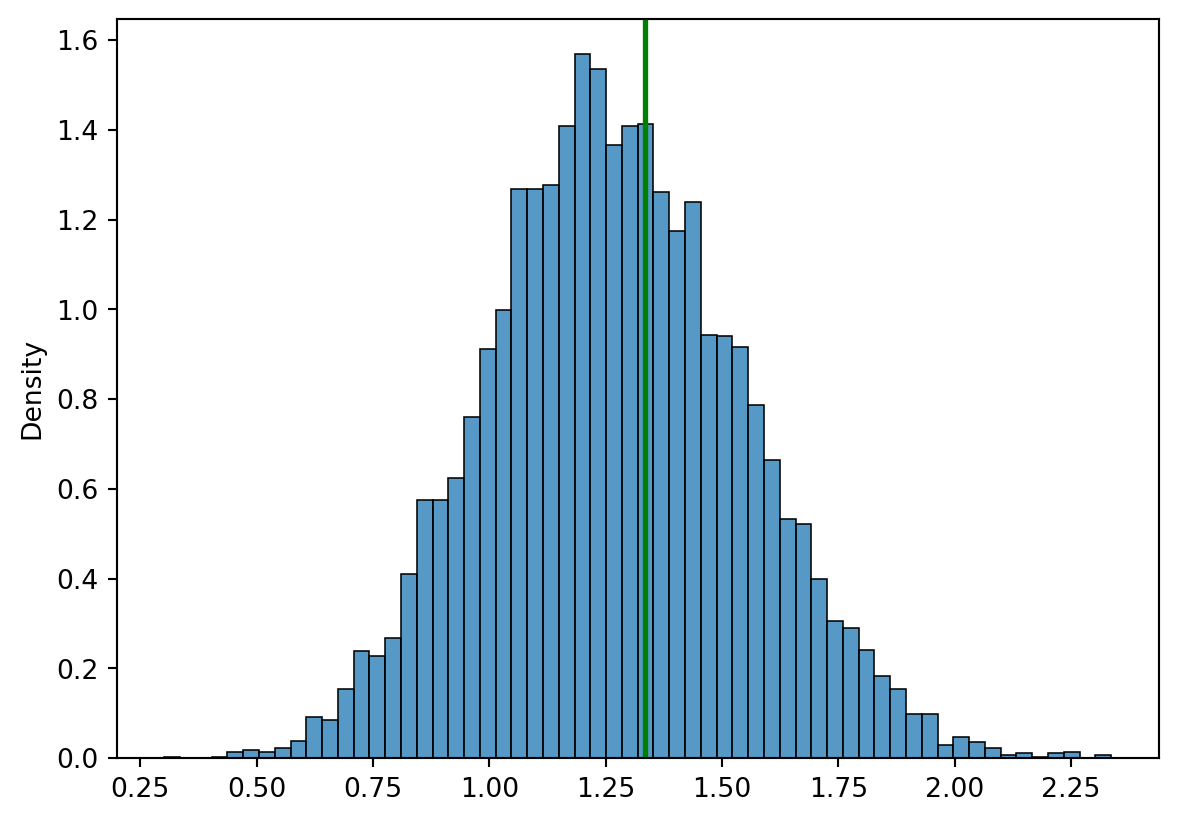
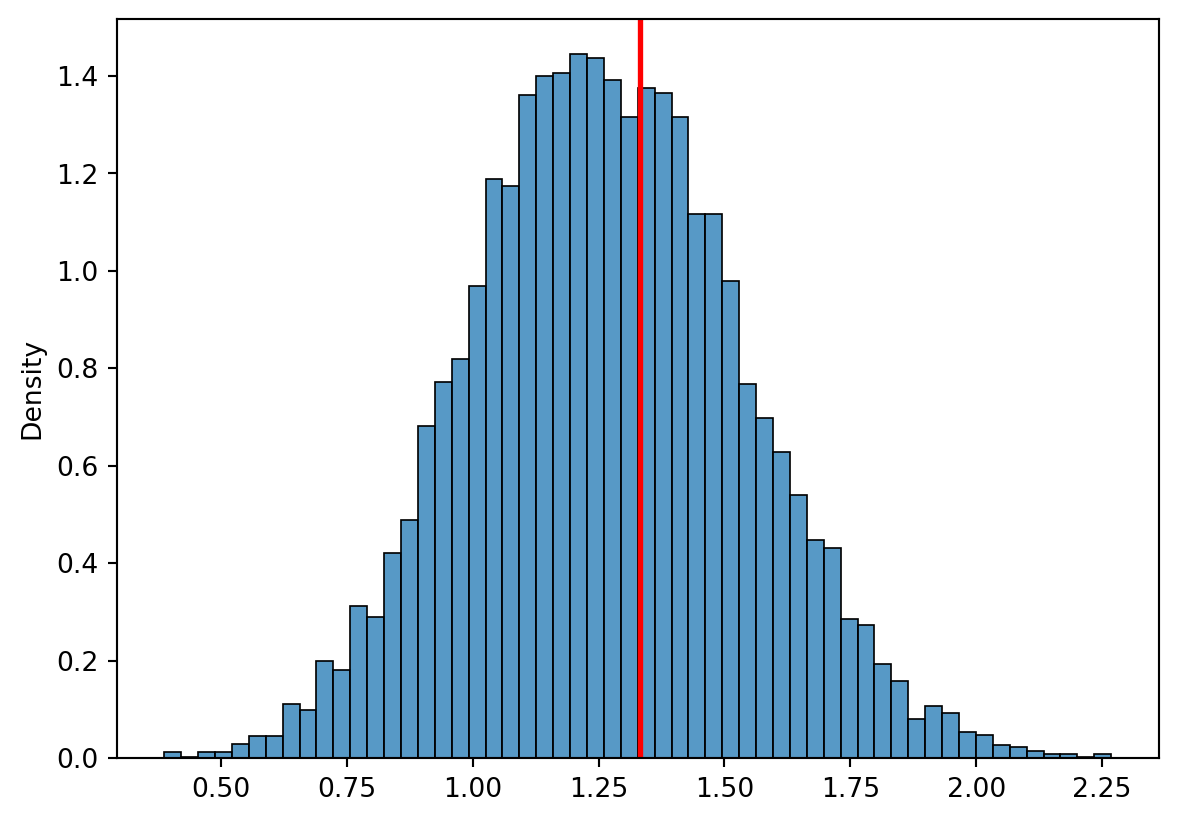
update

diff --git a/docs/posts/hw4/hw4.html b/docs/posts/hw4/hw4.html
@@ -199,7 +199,7 @@ pre > code.sourceCode > span > a:first-child::before { text-decoration: underlin
 <p>표본 분산 계산 시 왜 n-1로 나누는지 알아보도록 하겠습니다.</p>
 <p>균일분포 (3, 7)에서 20개의 표본을 뽑아서 분산을 2가지 방법으로 추정해보세요.</p>
 <p>n-1로 나눈 것을 s_2, n으로 나눈 것을 k_2로 정의하고, s_2의 분포와 k_2의 분포를 그려주세요! (10000개 사용) 각 분포 그래프에 모분산의 위치에 녹색 막대를 그려주세요. 결과를 살펴보고, 왜 n-1로 나눈 것을 분산을 추정하는 지표로 사용하는 것이 타당한지 써주세요!</p>
-<div id="1414750b" class="cell" data-execution_count="1">
+<div id="e3411988" class="cell" data-execution_count="1">
 <div class="sourceCode cell-code" id="cb1"><pre class="sourceCode python code-with-copy"><code class="sourceCode python"><span id="cb1-1"><a href="#cb1-1" aria-hidden="true" tabindex="-1"></a><span class="im">import</span> pandas <span class="im">as</span> pd</span>
 <span id="cb1-2"><a href="#cb1-2" aria-hidden="true" tabindex="-1"></a><span class="im">import</span> numpy <span class="im">as</span> np</span>
 <span id="cb1-3"><a href="#cb1-3" aria-hidden="true" tabindex="-1"></a><span class="im">import</span> seaborn <span class="im">as</span> sns</span>
@@ -207,25 +207,25 @@ pre > code.sourceCode > span > a:first-child::before { text-decoration: underlin
 <span id="cb1-5"><a href="#cb1-5" aria-hidden="true" tabindex="-1"></a><span class="im">from</span> scipy.stats <span class="im">import</span> uniform</span></code><button title="Copy to Clipboard" class="code-copy-button"><i class="bi"></i></button></pre></div>
 </div>
 <p><strong>균일분포 (3, 7)에서 20개의 표본 추출</strong></p>
-<div id="8072fa10" class="cell" data-execution_count="2">
+<div id="4361c513" class="cell" data-execution_count="2">
 <div class="sourceCode cell-code" id="cb2"><pre class="sourceCode python code-with-copy"><code class="sourceCode python"><span id="cb2-1"><a href="#cb2-1" aria-hidden="true" tabindex="-1"></a>x <span class="op">=</span> uniform.rvs(loc<span class="op">=</span><span class="dv">3</span>, scale<span class="op">=</span><span class="dv">4</span>, size<span class="op">=</span><span class="dv">20</span><span class="op">*</span><span class="dv">10000</span>)</span>
 <span id="cb2-2"><a href="#cb2-2" aria-hidden="true" tabindex="-1"></a>x</span>
 <span id="cb2-3"><a href="#cb2-3" aria-hidden="true" tabindex="-1"></a>x.shape</span>
 <span id="cb2-4"><a href="#cb2-4" aria-hidden="true" tabindex="-1"></a>x<span class="op">=</span>x.reshape(<span class="op">-</span><span class="dv">1</span>, <span class="dv">20</span>)</span>
 <span id="cb2-5"><a href="#cb2-5" aria-hidden="true" tabindex="-1"></a>x</span>
 <span id="cb2-6"><a href="#cb2-6" aria-hidden="true" tabindex="-1"></a>x.shape</span></code><button title="Copy to Clipboard" class="code-copy-button"><i class="bi"></i></button></pre></div>
-<div class="cell-output cell-output-display" data-execution_count="2">
+<div class="cell-output cell-output-display" data-execution_count="10">
 <pre><code>(10000, 20)</code></pre>
 </div>
 </div>
 <p><strong>n-1로 나눈 것을 s_2</strong> <strong>s_2의 분포 그리기 (10000개 사용)</strong> <strong>모분산의 위치에 녹색 막대</strong></p>
-<div id="6a22b1fe" class="cell" data-execution_count="3">
+<div id="7af1358f" class="cell" data-execution_count="3">
 <div class="sourceCode cell-code" id="cb4"><pre class="sourceCode python code-with-copy"><code class="sourceCode python"><span id="cb4-1"><a href="#cb4-1" aria-hidden="true" tabindex="-1"></a>s_2 <span class="op">=</span> np.var(x, ddof<span class="op">=</span><span class="dv">1</span>, axis<span class="op">=</span><span class="dv">1</span>)</span>
 <span id="cb4-2"><a href="#cb4-2" aria-hidden="true" tabindex="-1"></a>s_2.shape</span>
 <span id="cb4-3"><a href="#cb4-3" aria-hidden="true" tabindex="-1"></a>sns.histplot(s_2, stat<span class="op">=</span><span class="st">'density'</span>)</span>
-<span id="cb4-4"><a href="#cb4-4" aria-hidden="true" tabindex="-1"></a>plt.axvline(x <span class="op">=</span> uniform.var(loc<span class="op">=</span><span class="dv">2</span>, scale<span class="op">=</span><span class="dv">4</span>), color <span class="op">=</span> <span class="st">'green'</span>, linestyle <span class="op">=</span> <span class="st">'-'</span>, linewidth <span class="op">=</span> <span class="dv">2</span>)</span>
-<span id="cb4-5"><a href="#cb4-5" aria-hidden="true" tabindex="-1"></a>plt.show()</span>
-<span id="cb4-6"><a href="#cb4-6" aria-hidden="true" tabindex="-1"></a>plt.clf()</span></code><button title="Copy to Clipboard" class="code-copy-button"><i class="bi"></i></button></pre></div>
+<span id="cb4-4"><a href="#cb4-4" aria-hidden="true" tabindex="-1"></a>pop_var <span class="op">=</span> uniform.var(loc<span class="op">=</span><span class="dv">3</span>, scale<span class="op">=</span><span class="dv">4</span>)</span>
+<span id="cb4-5"><a href="#cb4-5" aria-hidden="true" tabindex="-1"></a>plt.axvline(x <span class="op">=</span> pop_var, color <span class="op">=</span> <span class="st">'red'</span>, linestyle <span class="op">=</span> <span class="st">'-'</span>, linewidth <span class="op">=</span> <span class="dv">2</span>)</span>
+<span id="cb4-6"><a href="#cb4-6" aria-hidden="true" tabindex="-1"></a>plt.show()</span></code><button title="Copy to Clipboard" class="code-copy-button"><i class="bi"></i></button></pre></div>
 <div class="cell-output cell-output-display">
 <div>
 <figure class="figure">
@@ -233,18 +233,15 @@ pre > code.sourceCode > span > a:first-child::before { text-decoration: underlin
 </figure>
 </div>
 </div>
-<div class="cell-output cell-output-display">
-<pre><code>&lt;Figure size 672x480 with 0 Axes&gt;</code></pre>
-</div>
 </div>
 <p><strong>n으로 나눈 것을 k_2로 정의</strong> <strong>k_2의 분포 그리기 (10000개 사용)</strong> <strong>모분산의 위치에 녹색 막대</strong></p>
-<div id="69f90caf" class="cell" data-execution_count="4">
-<div class="sourceCode cell-code" id="cb6"><pre class="sourceCode python code-with-copy"><code class="sourceCode python"><span id="cb6-1"><a href="#cb6-1" aria-hidden="true" tabindex="-1"></a>k_2 <span class="op">=</span> np.var(x, ddof<span class="op">=</span><span class="dv">0</span>, axis<span class="op">=</span><span class="dv">1</span>)</span>
-<span id="cb6-2"><a href="#cb6-2" aria-hidden="true" tabindex="-1"></a>k_2.shape</span>
-<span id="cb6-3"><a href="#cb6-3" aria-hidden="true" tabindex="-1"></a></span>
-<span id="cb6-4"><a href="#cb6-4" aria-hidden="true" tabindex="-1"></a>sns.histplot(k_2, stat<span class="op">=</span><span class="st">'density'</span>)</span>
-<span id="cb6-5"><a href="#cb6-5" aria-hidden="true" tabindex="-1"></a>plt.axvline(x <span class="op">=</span> uniform.var(loc<span class="op">=</span><span class="dv">2</span>, scale<span class="op">=</span><span class="dv">4</span>), color <span class="op">=</span> <span class="st">'green'</span>, linestyle <span class="op">=</span> <span class="st">'-'</span>, linewidth <span class="op">=</span> <span class="dv">2</span>)</span>
-<span id="cb6-6"><a href="#cb6-6" aria-hidden="true" tabindex="-1"></a>plt.show()</span></code><button title="Copy to Clipboard" class="code-copy-button"><i class="bi"></i></button></pre></div>
+<div id="1055a657" class="cell" data-execution_count="4">
+<div class="sourceCode cell-code" id="cb5"><pre class="sourceCode python code-with-copy"><code class="sourceCode python"><span id="cb5-1"><a href="#cb5-1" aria-hidden="true" tabindex="-1"></a>k_2 <span class="op">=</span> np.var(x, ddof<span class="op">=</span><span class="dv">0</span>, axis<span class="op">=</span><span class="dv">1</span>)</span>
+<span id="cb5-2"><a href="#cb5-2" aria-hidden="true" tabindex="-1"></a>k_2.shape</span>
+<span id="cb5-3"><a href="#cb5-3" aria-hidden="true" tabindex="-1"></a></span>
+<span id="cb5-4"><a href="#cb5-4" aria-hidden="true" tabindex="-1"></a>sns.histplot(k_2, stat<span class="op">=</span><span class="st">'density'</span>)</span>
+<span id="cb5-5"><a href="#cb5-5" aria-hidden="true" tabindex="-1"></a>plt.axvline(x <span class="op">=</span> pop_var, color <span class="op">=</span> <span class="st">'red'</span>, linestyle <span class="op">=</span> <span class="st">'-'</span>, linewidth <span class="op">=</span> <span class="dv">2</span>)</span>
+<span id="cb5-6"><a href="#cb5-6" aria-hidden="true" tabindex="-1"></a>plt.show()</span></code><button title="Copy to Clipboard" class="code-copy-button"><i class="bi"></i></button></pre></div>
 <div class="cell-output cell-output-display">
 <div>
 <figure class="figure">

diff --git a/docs/blog.html b/docs/blog.html
@@ -202,7 +202,7 @@ window.Quarto = {
 
 <div class="quarto-listing quarto-listing-container-default" id="listing-listing">
 <div class="list quarto-listing-default">
-<div class="quarto-post image-right" data-index="0" data-categories="bigdata" data-listing-date-sort="1722178800000" data-listing-file-modified-sort="1722265827147" data-listing-date-modified-sort="NaN" data-listing-reading-time-sort="1" data-listing-word-count-sort="156">
+<div class="quarto-post image-right" data-index="0" data-categories="bigdata" data-listing-date-sort="1722178800000" data-listing-file-modified-sort="1722303002160" data-listing-date-modified-sort="NaN" data-listing-reading-time-sort="1" data-listing-word-count-sort="157">
 <div class="thumbnail">
 <p><a href="./posts/hw4/hw4.html" class="no-external"></a></p><a href="./posts/hw4/hw4.html" class="no-external">
 <p class="card-img-top"><img src="posts\hw4\hw4_files\figure-html\cell-4-output-1.png"  class="thumbnail-image card-img"/></p>

diff --git a/docs/about.html b/docs/about.html
@@ -171,7 +171,7 @@ pre > code.sourceCode > span > a:first-child::before { text-decoration: underlin
 
 
 <p>About this site</p>
-<div id="315b270c" class="cell" data-execution_count="1">
+<div id="30745af6" class="cell" data-execution_count="1">
 <div class="sourceCode cell-code" id="cb1"><pre class="sourceCode python code-with-copy"><code class="sourceCode python"><span id="cb1-1"><a href="#cb1-1" aria-hidden="true" tabindex="-1"></a><span class="dv">1</span> <span class="op">+</span> <span class="dv">1</span></span></code><button title="Copy to Clipboard" class="code-copy-button"><i class="bi"></i></button></pre></div>
 <div class="cell-output cell-output-display" data-execution_count="1">
 <pre><code>2</code></pre>
